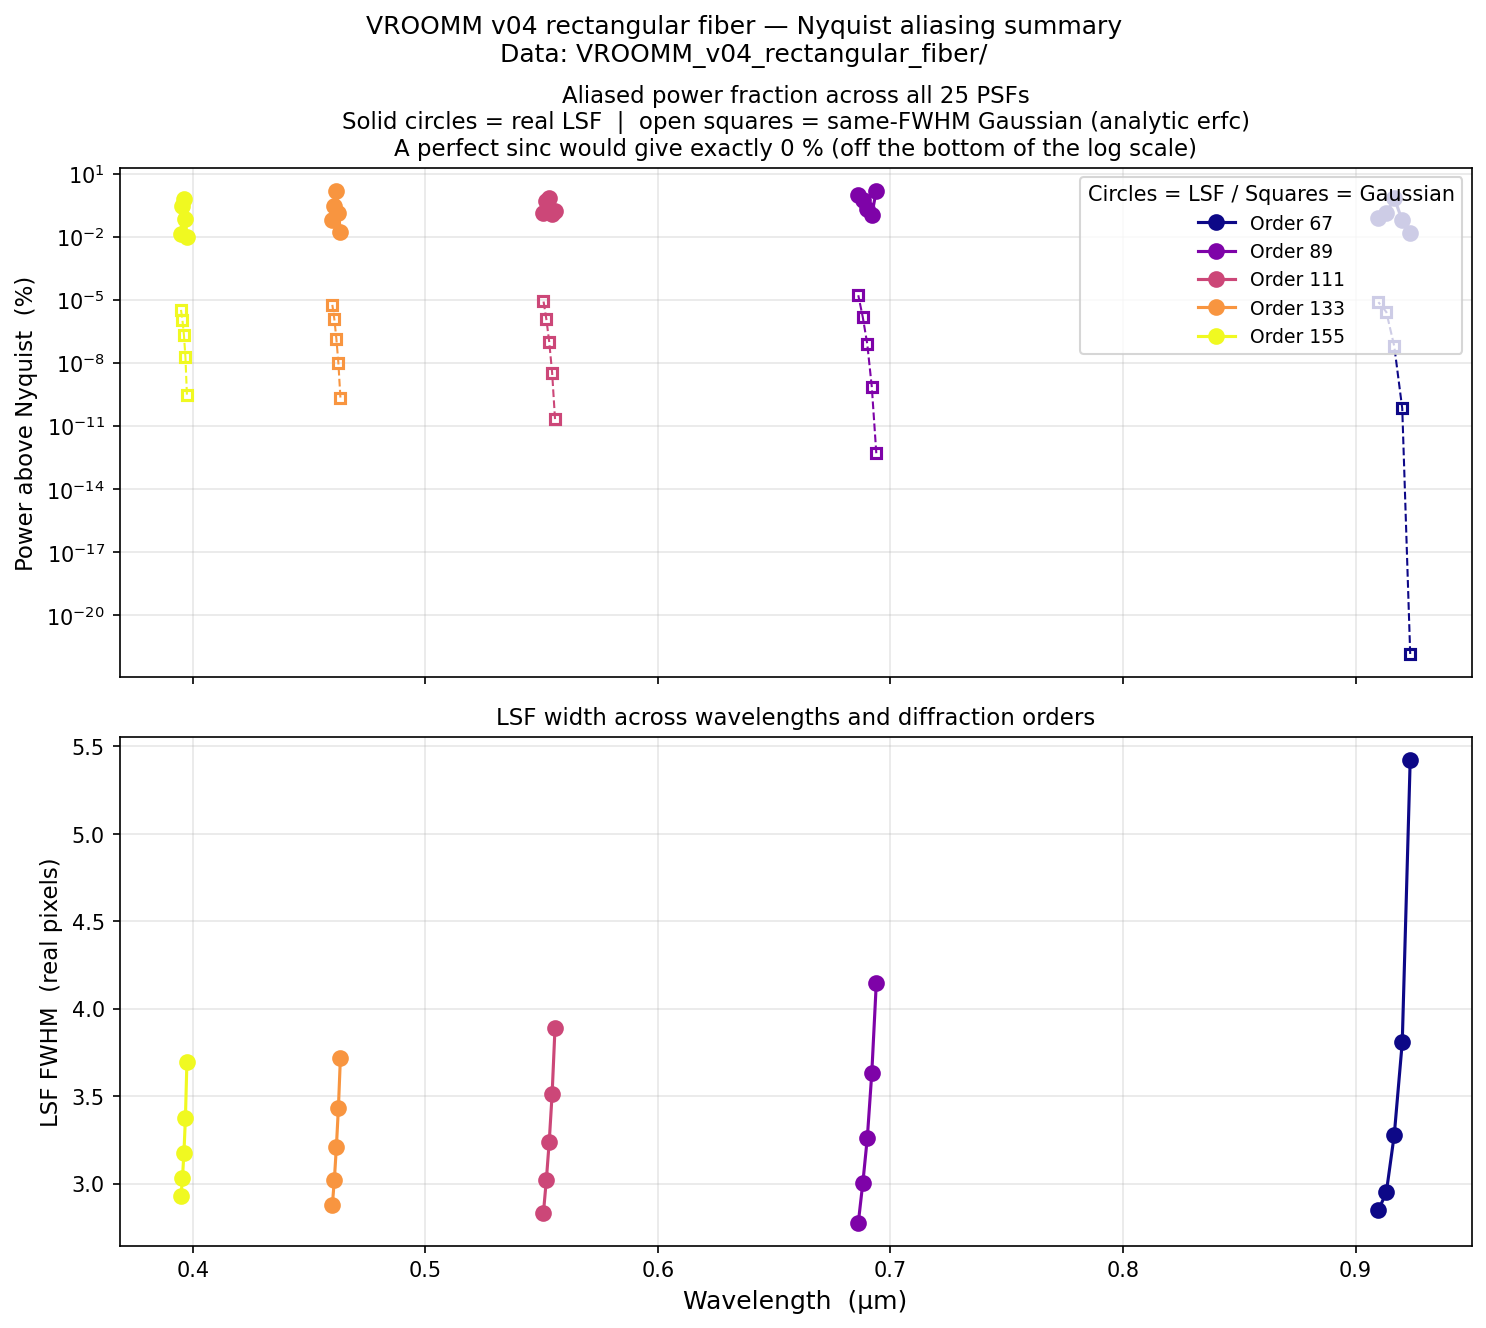
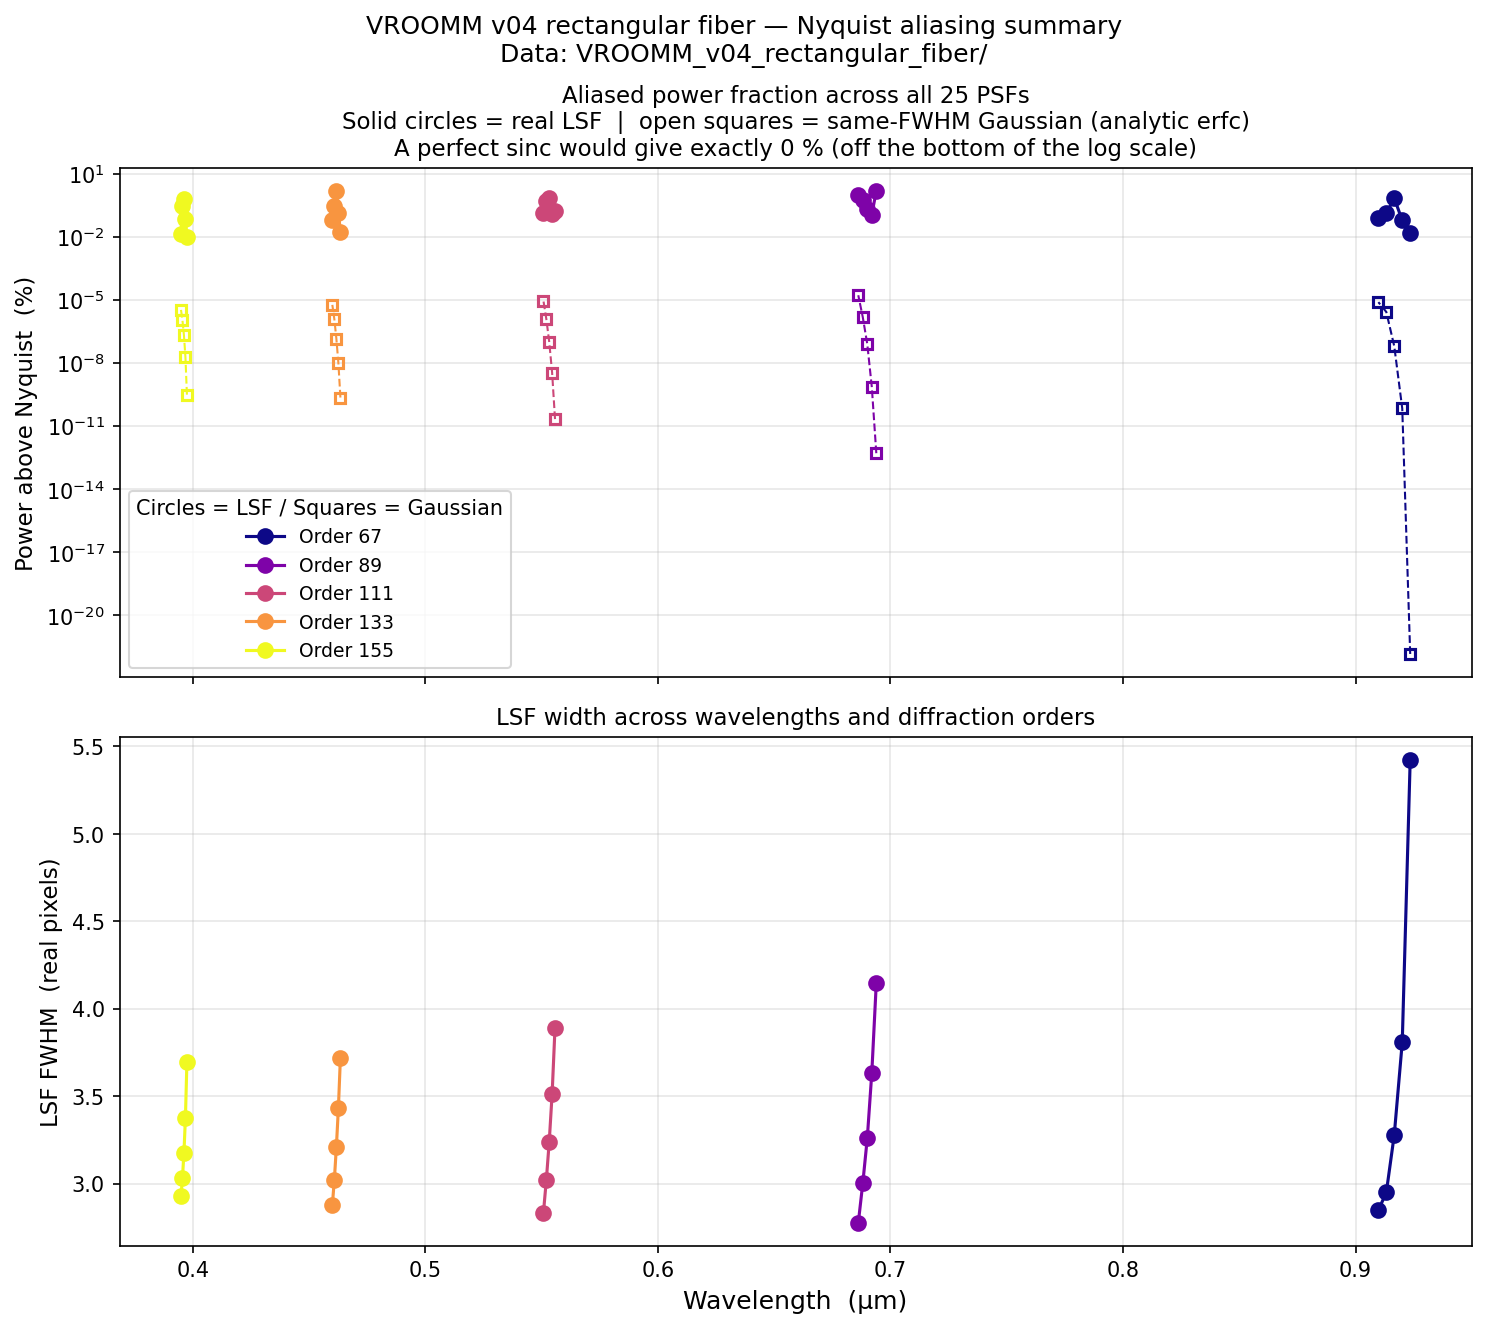
Change legend position in LSF plot for better visibility

Changed region(s): [[0.7429, 0.1235, 0.9906, 0.2779], [0.0929, 0.3705, 0.3405, 0.494], [0.9287, 0.2161, 0.9596, 0.2779]]

diff --git a/lsf_nyquist.py b/lsf_nyquist.py
@@ -525,7 +525,7 @@ ax4a.set_title('Aliased power fraction across all 25 PSFs\n'
                'A perfect sinc would give exactly 0 % (off the bottom of the log scale)',
                fontsize=11)
 ax4a.legend(title='Circles = LSF / Squares = Gaussian',
-            fontsize=9, loc='upper right')
+            fontsize=9, loc='lower left')
 ax4a.grid(True, which='both', alpha=0.3)
 
 ax4b.set_xlabel('Wavelength  (µm)', fontsize=12)
